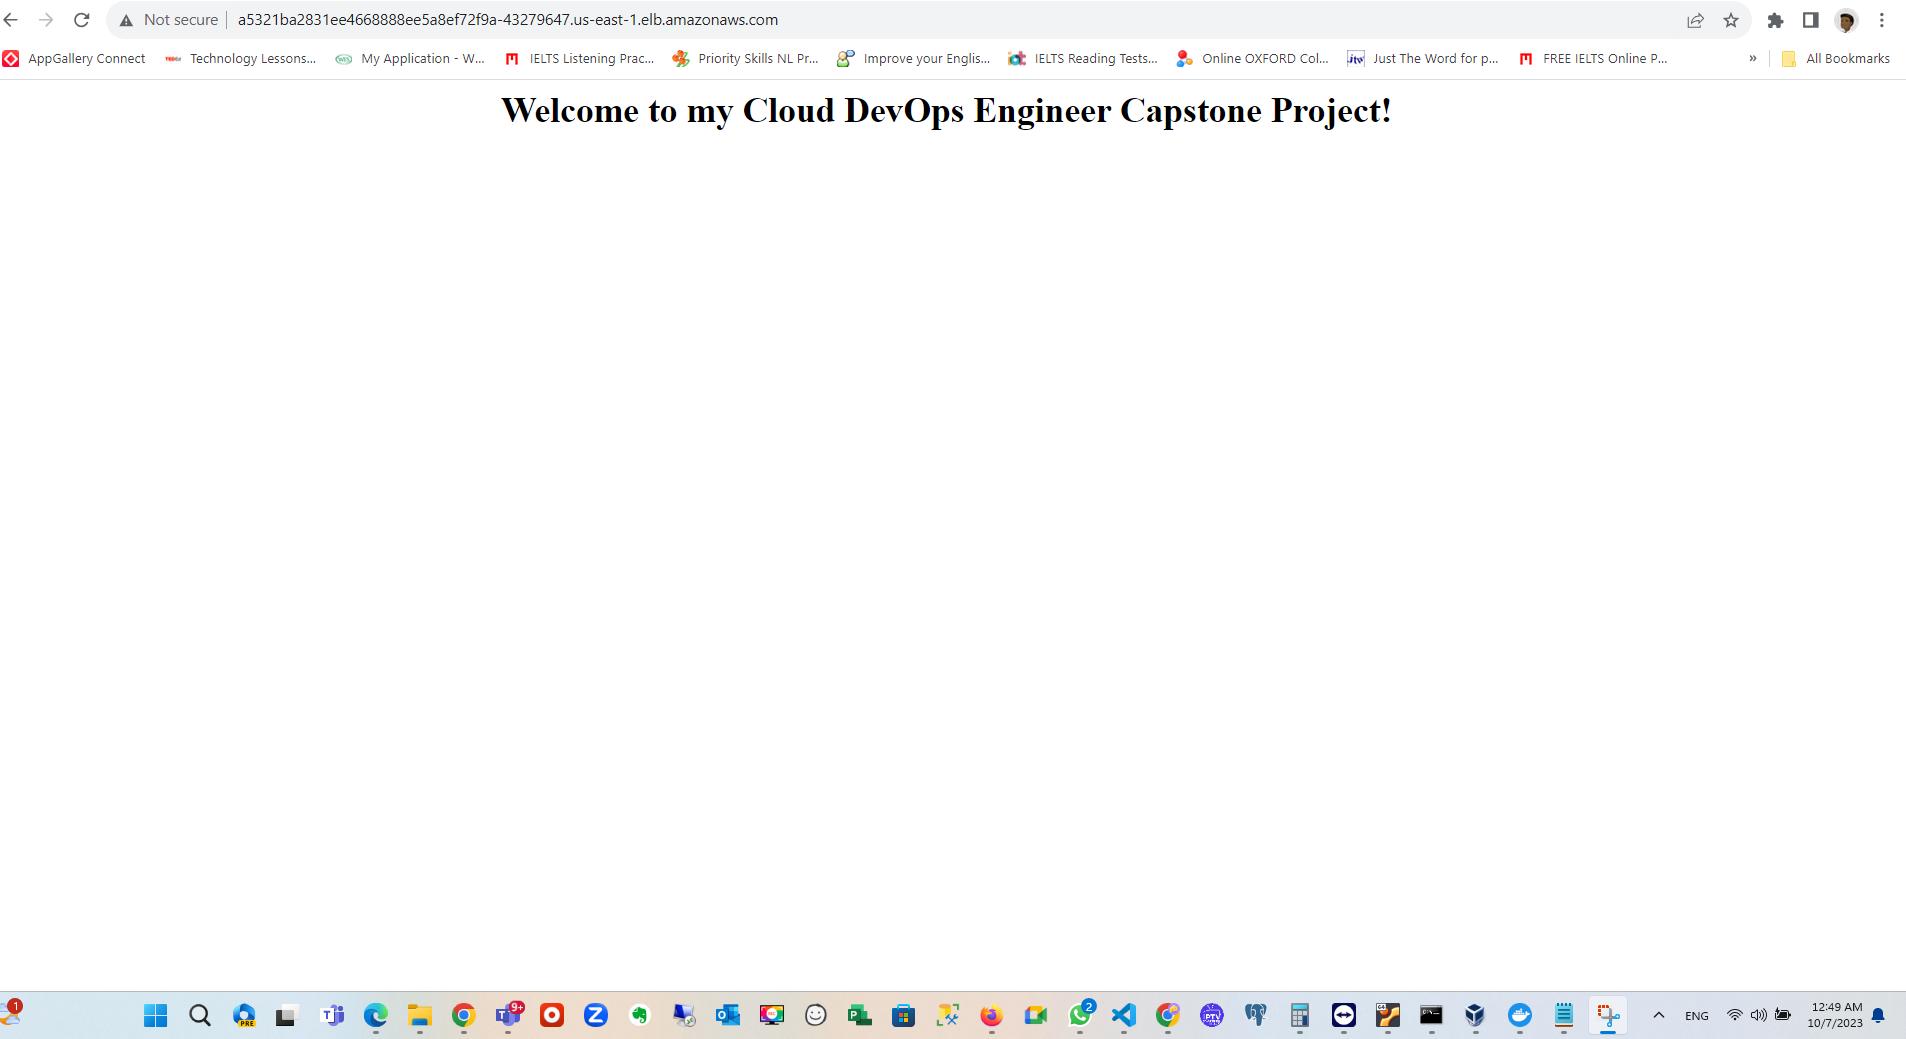
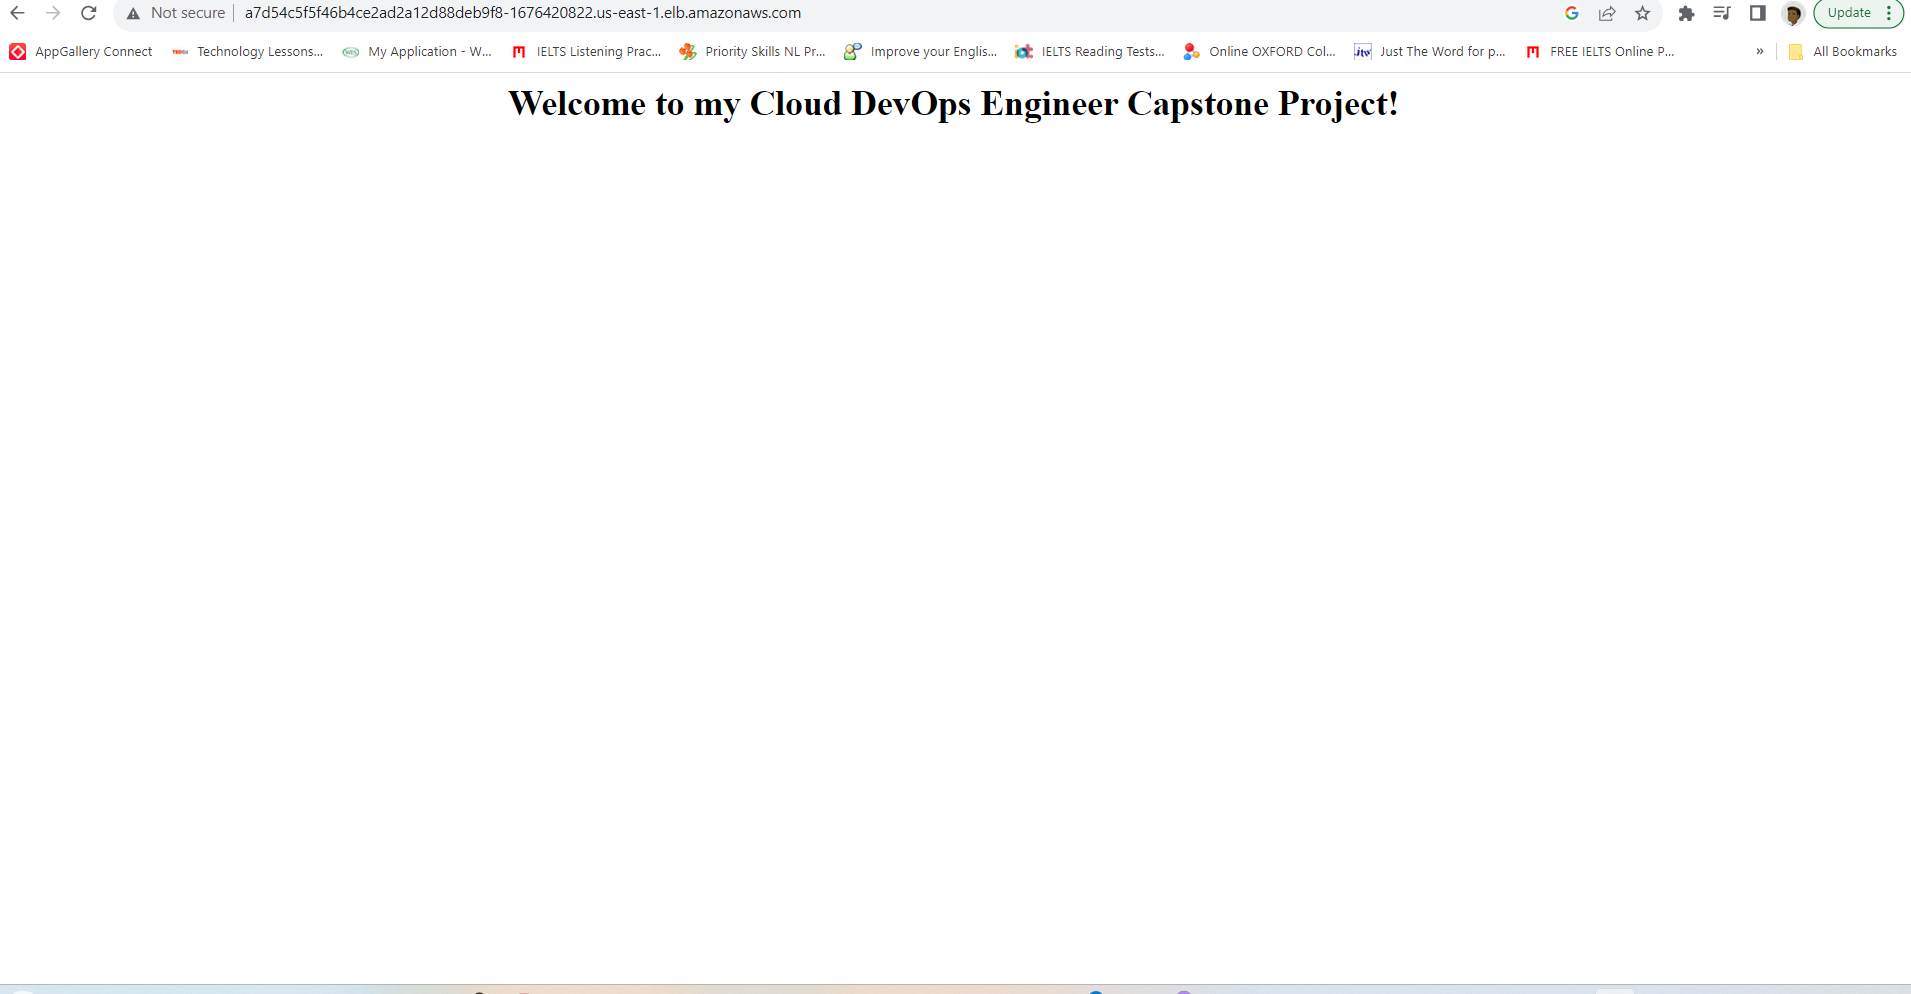
submit

Changed region(s): [[0.0, 0.9356, 1.0, 1.0], [0.0, 0.0, 1.0, 0.0624], [0.2476, 0.0936, 0.7429, 0.1247]]

diff --git a/README.md b/README.md
@@ -45,12 +45,29 @@ I used CircleCi to create a CI/CD Pipeline to test and deploy changes manually b
 Linting is used to check if the Application and Dockerfile is syntactically correct.
 This process makes sure that the code quality is always as good as possible.
 
-![Linting step](./screenshots/lint-step-testing.png)
+#### This is the output when the step fails:
+
+![Linting step fail](./screenshots/lint-step-testing-fail.png)
+
+
+#### This is the output when the step passes:
+
+![Linting step fail](./screenshots/lint-step-testing-success.png)
+
 
 ## Access the Application
 
 After the EKS-Cluster has been successfully configured using Ansible within the CI/CD Pipeline, I checked the deployment and service as follows:
 
-Public LB DNS: http://a9d7166a2525d405db00907ffb57de4e-1479088191.eu-central-1.elb.amazonaws.com
+$ kubectl get deployments
+NAME                          READY   UP-TO-DATE   AVAILABLE   AGE
+capstone-project-deployment   4/4     4            4           68m
+
+$ kubectl get services
+NAME                       TYPE           CLUSTER-IP       EXTERNAL-IP                                                                  PORT(S)        AGE
+capstone-project-service   LoadBalancer   10.100.240.221   a9d7166a2525d405db00907ffb57de4e-1479088191.us-east-1.elb.amazonaws.com   80:32299/TCP   69m
+kubernetes                 ClusterIP      10.100.0.1       <none>                                                                       443/TCP        80m
+
+Public LB DNS: http://a7d54c5f5f46b4ce2ad2a12d88deb9f8-1676420822.us-east-1.elb.amazonaws.com/
 
 ![Access LB DNS](./screenshots/load-balancer-url-for-the-app.png)
